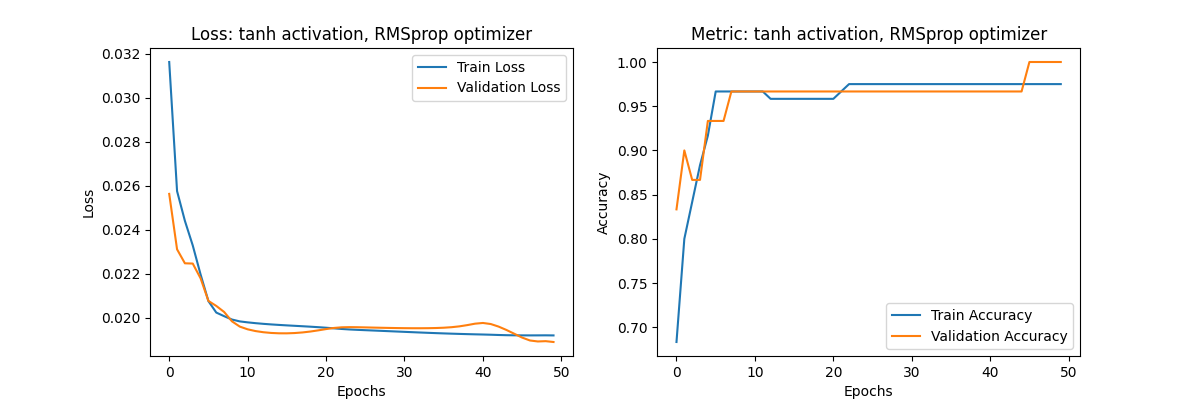
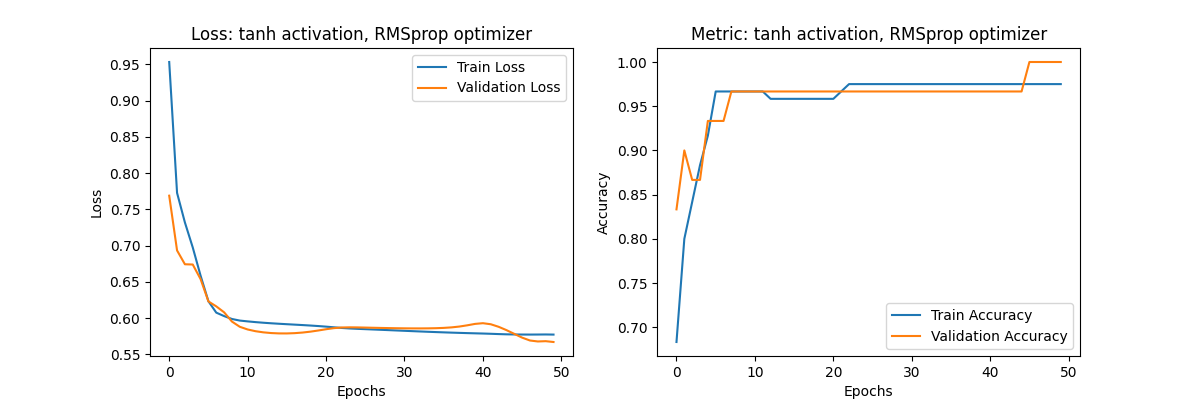
HW6Part2: Multiplying loss by weight of batch in torch

diff --git a/HW6Part2/torch_dnn.py b/HW6Part2/torch_dnn.py
@@ -121,7 +121,7 @@ def train_epoch(
         optimizer.step()
         optimizer.zero_grad()
 
-        epoch_loss += loss.item()
+        epoch_loss += loss.item() * len(X)
         if classification:
             correct += (pred.argmax(1) == y.argmax(1)).type(torch.float).sum().item()
 
@@ -162,7 +162,7 @@ def evaluate_epoch(
     with torch.no_grad():
         for X, y in test_loader:
             pred = model(X)
-            val_loss += loss_fn(pred, y).item()
+            val_loss += loss_fn(pred, y).item()  * len(X)
 
             if classification:
                 correct += (pred.argmax(1) == y.argmax(1)).type(torch.float).sum().item()
